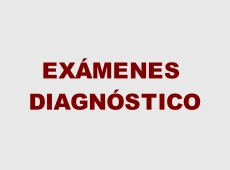
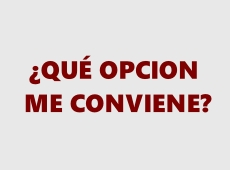
Modalidad 4

Changed region(s): [[0.0913, 0.5, 0.9435, 0.6765], [0.1217, 0.3235, 0.8826, 0.5]]

diff --git a/src/components/CarouselOfertEdu.jsx b/src/components/CarouselOfertEdu.jsx
@@ -94,6 +94,10 @@ function CarouselOfertEdu() {
       name: "Examen Único",
       image: "/Modalidad3.jpg",
     },
+    {
+      name: "¿Qué opcion me conviene?",
+      image: "/Modalidad4.jpg",
+    },
   ];
 
   const settings = {
